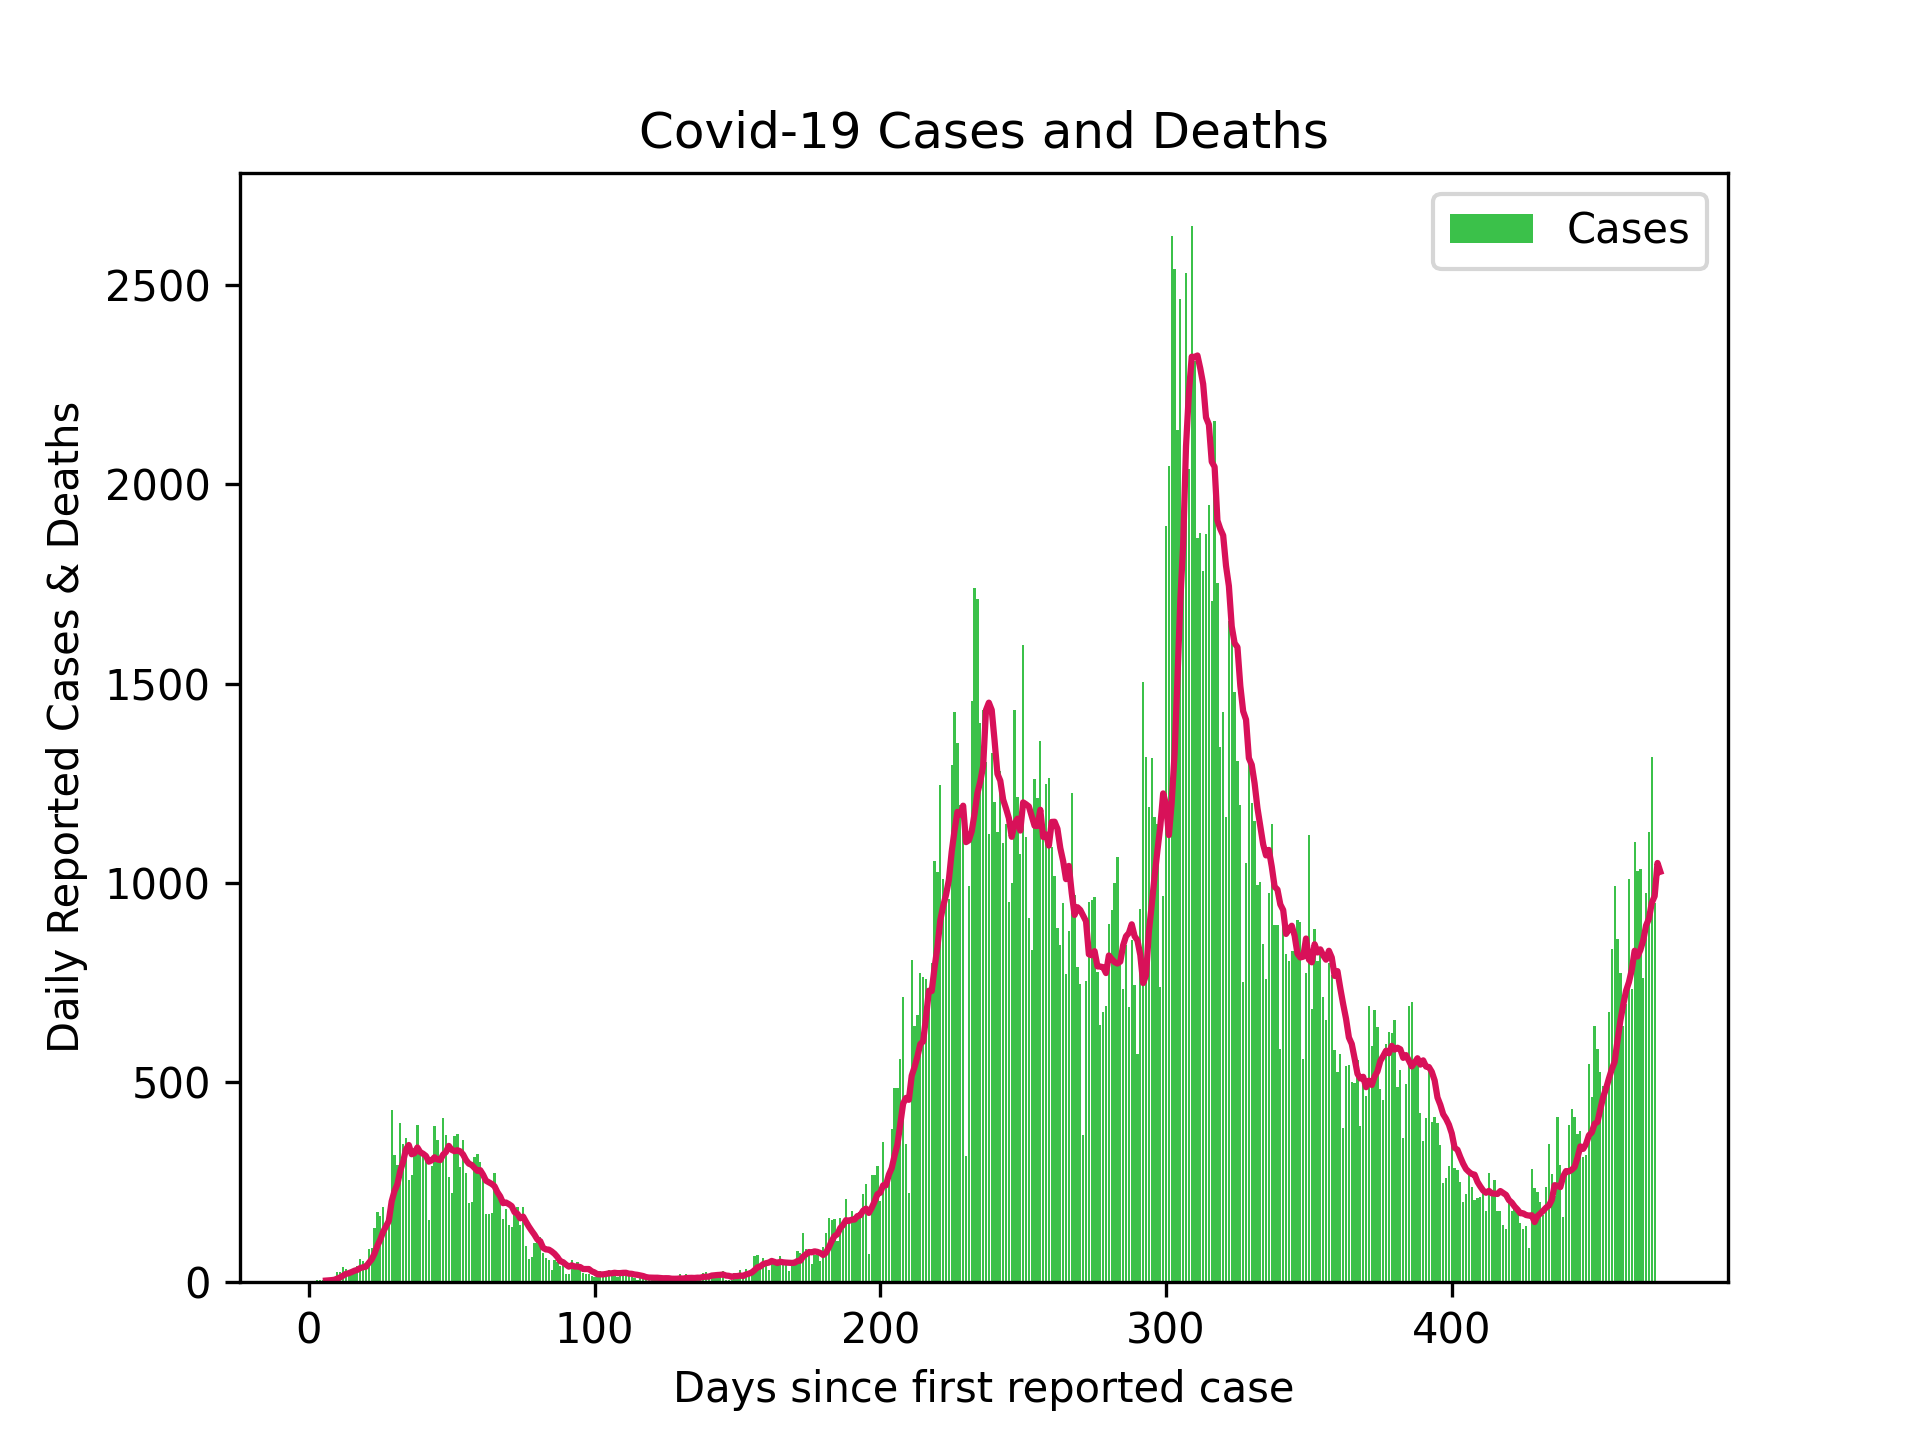
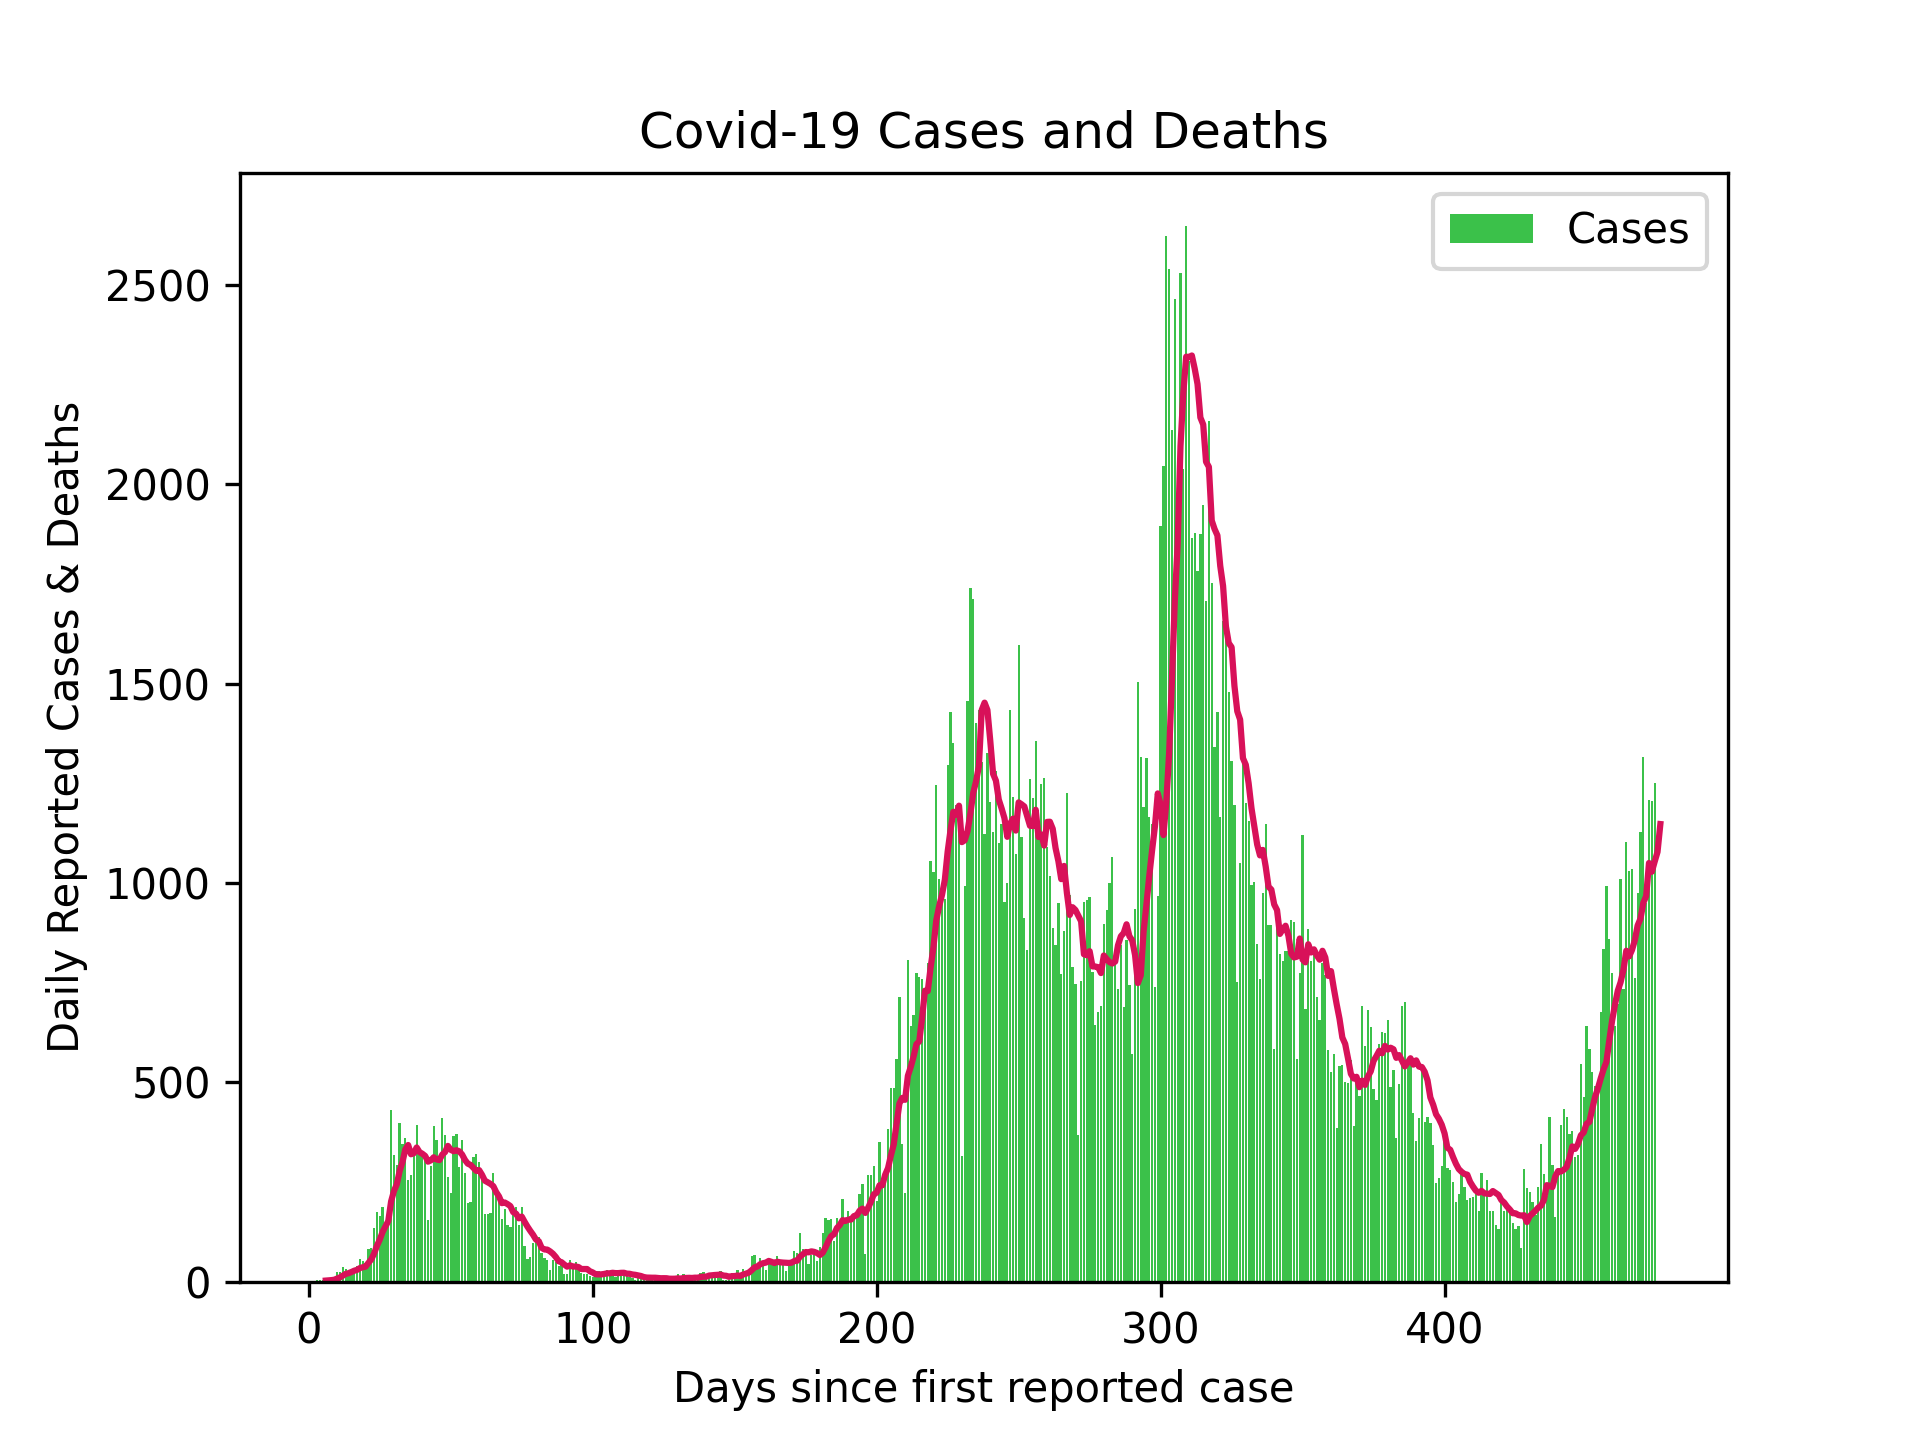
Updated Scottish cases 21/06/21

Changed region(s): [[0.4062, 0.1562, 0.875, 0.9375], [0.1875, 0.7812, 0.3438, 0.9375]]

diff --git a/README.md b/README.md
@@ -1,4 +1,4 @@
-# Scottish Cases 18/06/21
+# Scottish Cases 21/06/21
 
 ![alt](scottish_cases.png)
 
